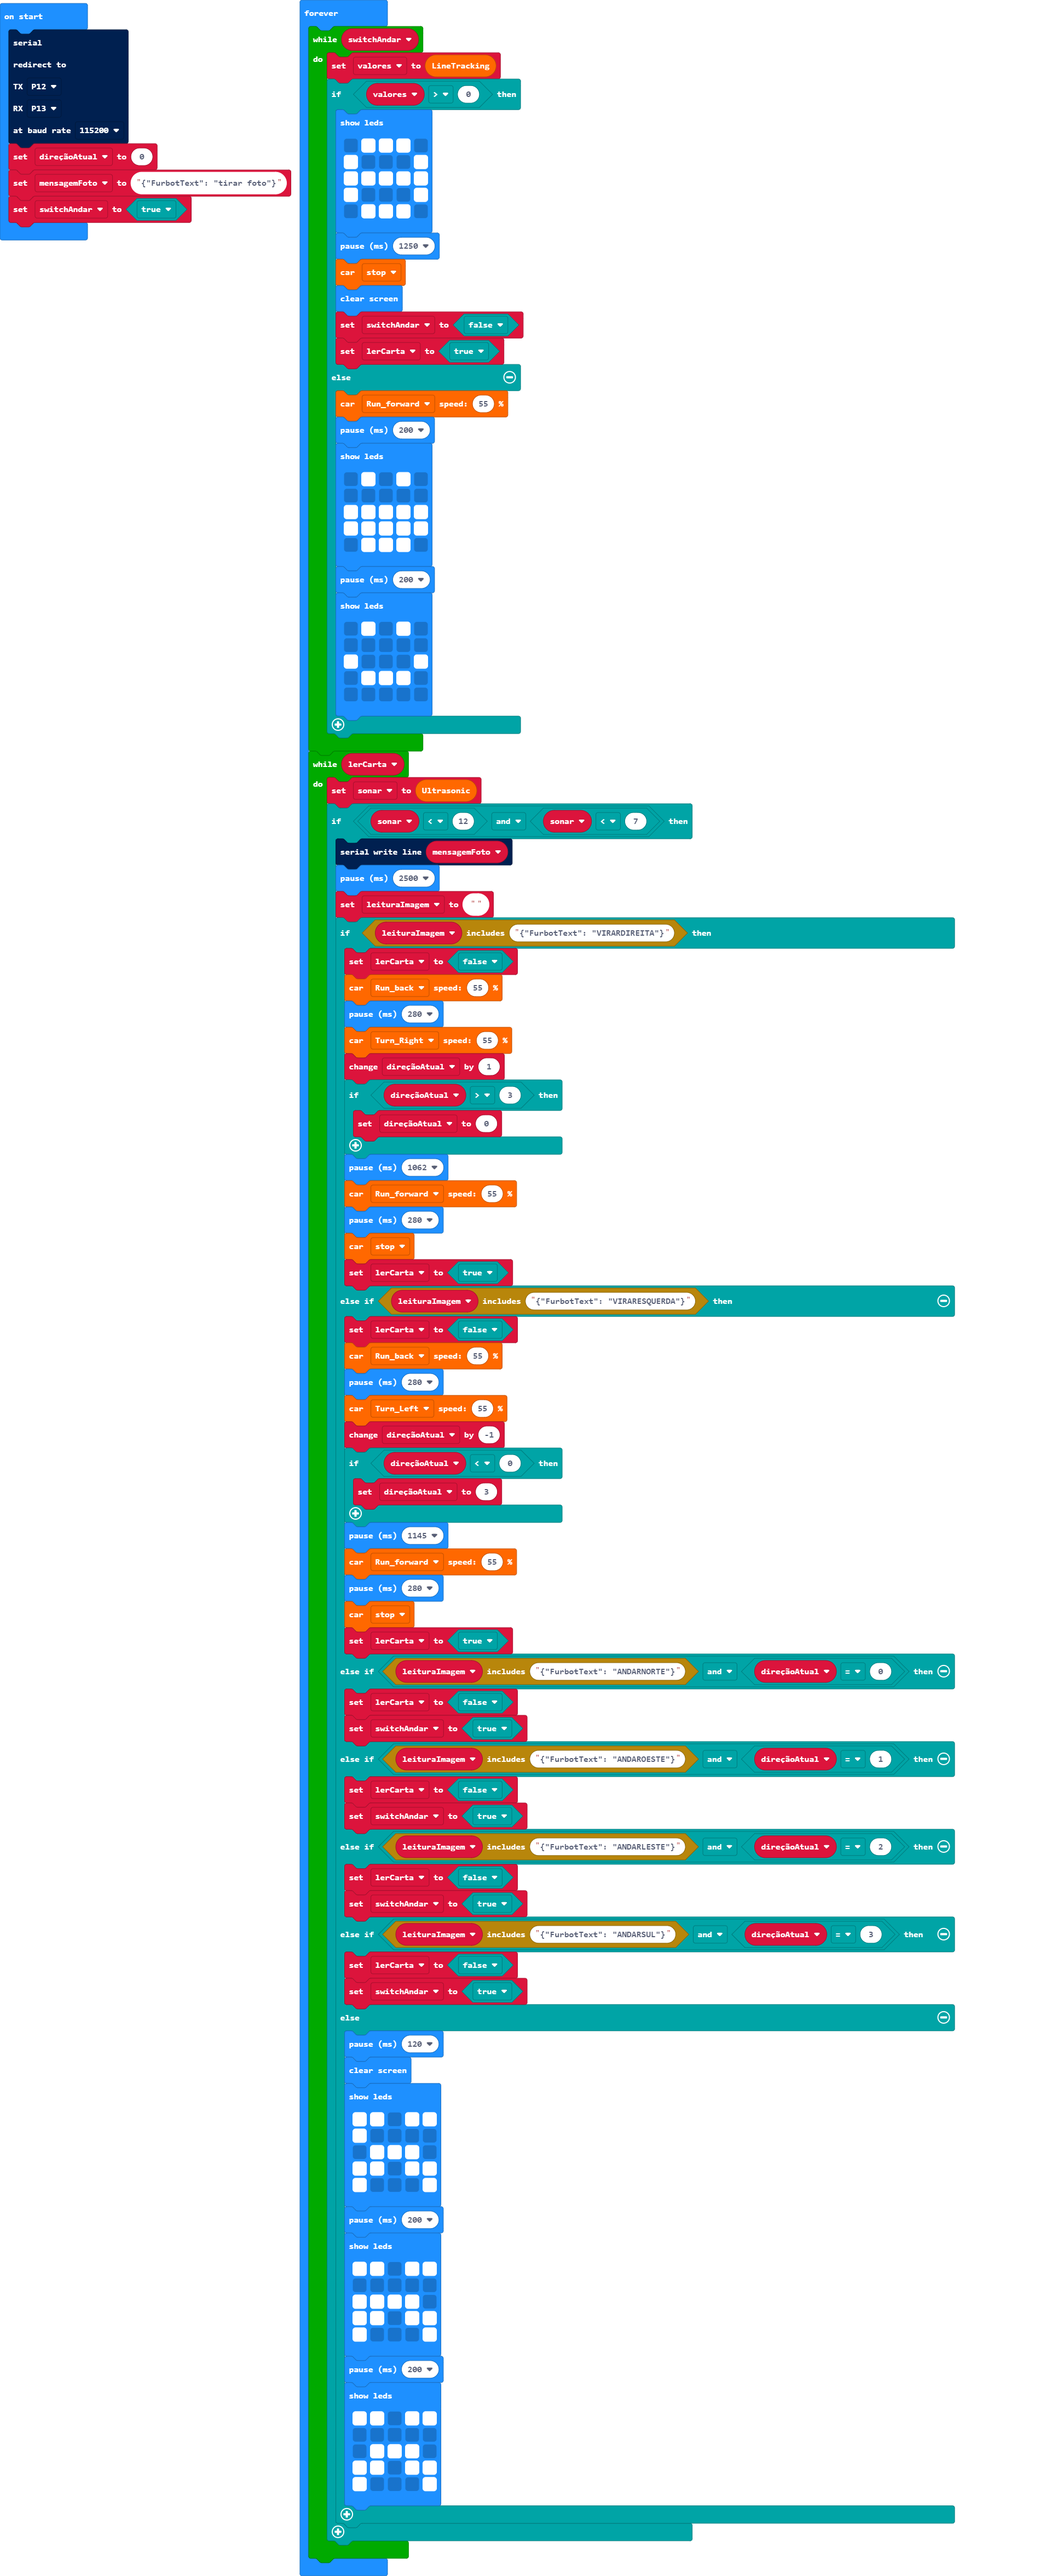
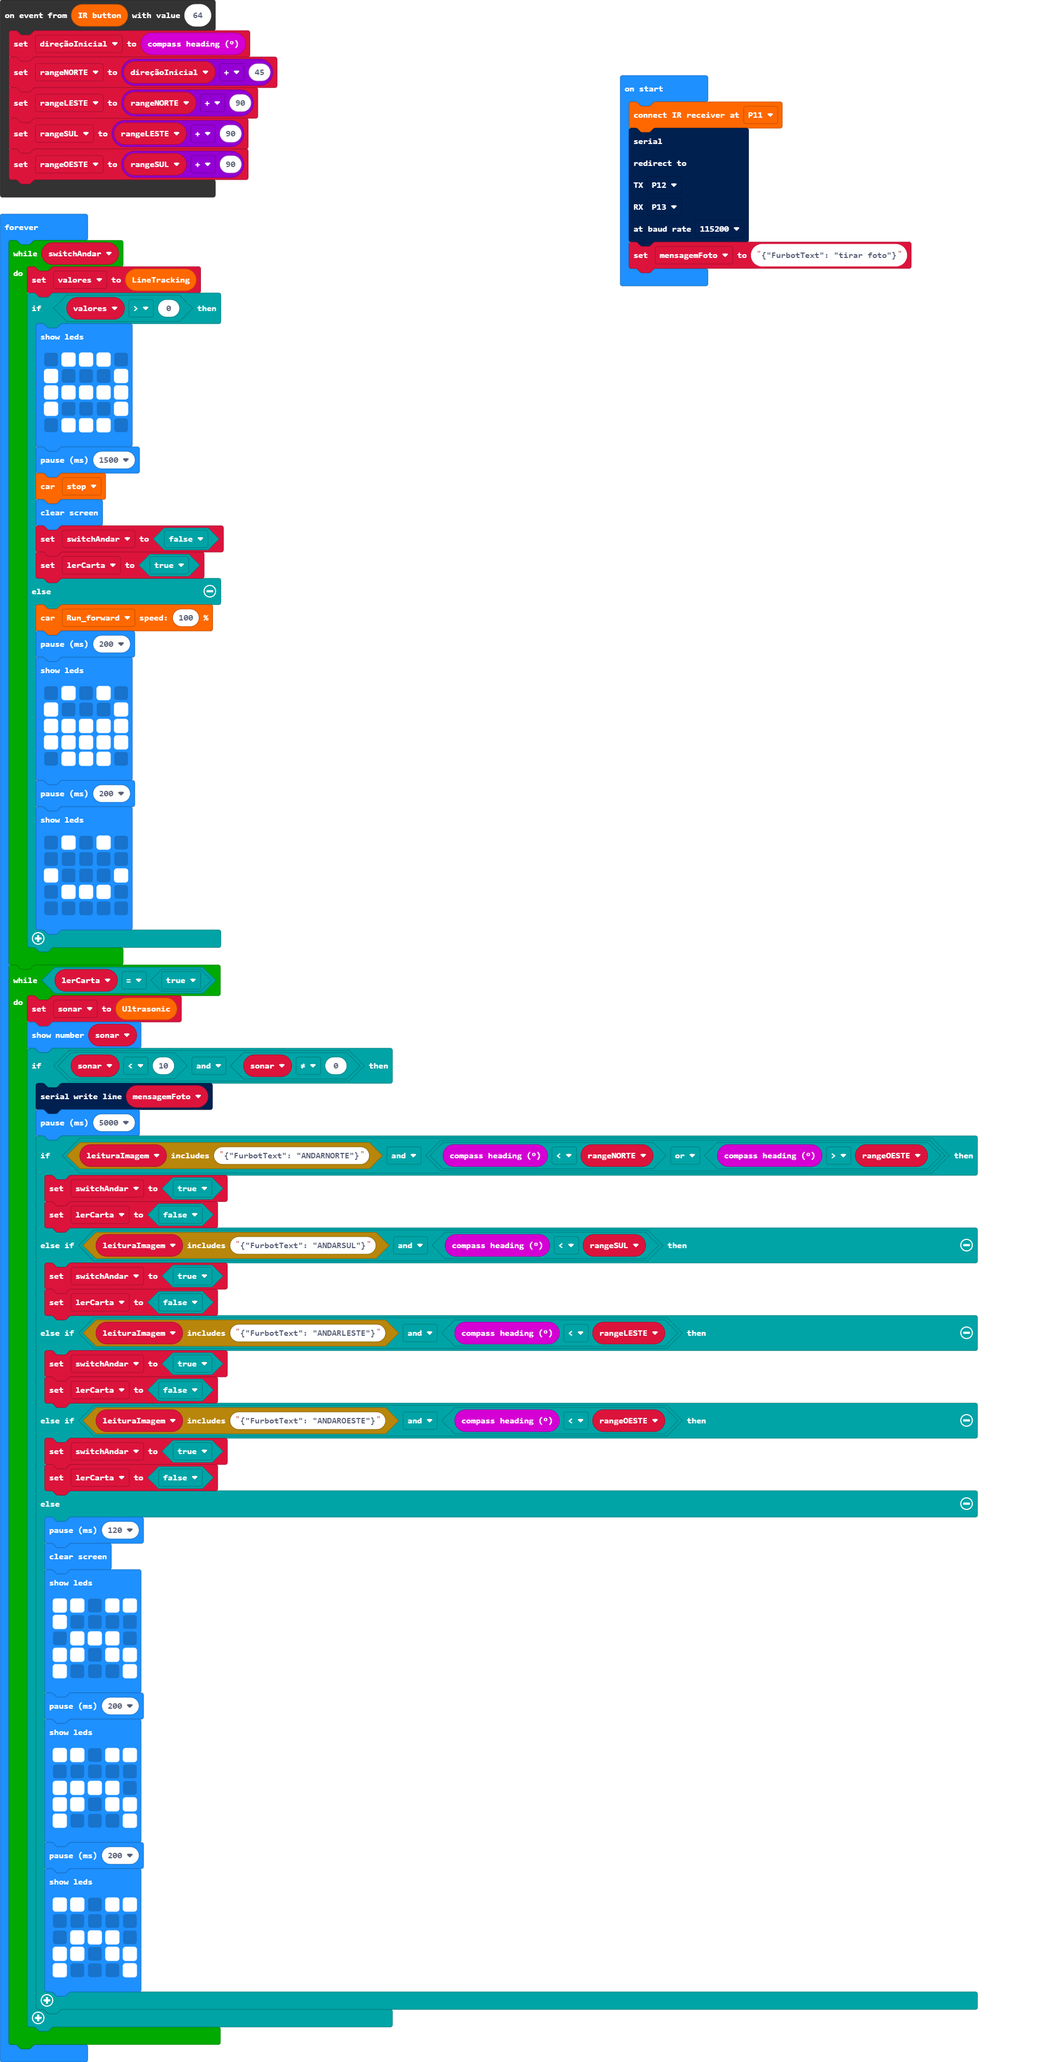
Restore '24/05/2022 17:10:45 Update main.blocks'

diff --git a/main.ts b/main.ts
@@ -1,15 +1,26 @@
-let leituraImagem = ""
+control.onEvent(irRemote.returnIrButton(), 64, function () {
+    direçãoInicial = input.compassHeading()
+    rangeNORTE = direçãoInicial + 45
+    rangeLESTE = rangeNORTE + 90
+    rangeSUL = rangeLESTE + 90
+    rangeOESTE = rangeSUL + 90
+})
 let sonar = 0
 let lerCarta = false
 let valores = 0
+let switchAndar = false
+let rangeOESTE = 0
+let rangeSUL = 0
+let rangeLESTE = 0
+let rangeNORTE = 0
+let direçãoInicial = 0
+irRemote.connectInfrared(DigitalPin.P11)
 serial.redirect(
 SerialPin.P12,
 SerialPin.P13,
 BaudRate.BaudRate115200
 )
-let direçãoAtual = 0
 let mensagemFoto = "{\"FurbotText\": \"tirar foto\"}"
-let switchAndar = true
 basic.forever(function () {
     while (switchAndar) {
         valores = turtleBit.LineTracking()
@@ -21,17 +32,17 @@ basic.forever(function () {
                 # . . . #
                 . # # # .
                 `)
-            basic.pause(1250)
+            basic.pause(1500)
             turtleBit.state(MotorState.stop)
             basic.clearScreen()
             switchAndar = false
             lerCarta = true
         } else {
-            turtleBit.run(DIR.Run_forward, 55)
+            turtleBit.run(DIR.Run_forward, 100)
             basic.pause(200)
             basic.showLeds(`
                 . # . # .
-                . . . . .
+                # . . . #
                 # # # # #
                 # # # # #
                 . # # # .
@@ -46,52 +57,25 @@ basic.forever(function () {
                 `)
         }
     }
-    while (lerCarta) {
+    while (lerCarta == true) {
         sonar = turtleBit.ultra()
-        if (sonar < 12 && sonar < 7) {
+        basic.showNumber(sonar)
+        if (sonar < 10 && sonar != 0) {
+            let leituraImagem = ""
             serial.writeLine(mensagemFoto)
-            basic.pause(2500)
-            leituraImagem = ""
-            if (leituraImagem.includes("{\"FurbotText\": \"VIRARDIREITA\"}")) {
-                lerCarta = false
-                turtleBit.run(DIR.Run_back, 55)
-                basic.pause(280)
-                turtleBit.run(DIR.Turn_Right, 55)
-                direçãoAtual += 1
-                if (direçãoAtual > 3) {
-                    direçãoAtual = 0
-                }
-                basic.pause(1062)
-                turtleBit.run(DIR.Run_forward, 55)
-                basic.pause(280)
-                turtleBit.state(MotorState.stop)
-                lerCarta = true
-            } else if (leituraImagem.includes("{\"FurbotText\": \"VIRARESQUERDA\"}")) {
-                lerCarta = false
-                turtleBit.run(DIR.Run_back, 55)
-                basic.pause(280)
-                turtleBit.run(DIR.Turn_Left, 55)
-                direçãoAtual += -1
-                if (direçãoAtual < 0) {
-                    direçãoAtual = 3
-                }
-                basic.pause(1145)
-                turtleBit.run(DIR.Run_forward, 55)
-                basic.pause(280)
-                turtleBit.state(MotorState.stop)
-                lerCarta = true
-            } else if (leituraImagem.includes("{\"FurbotText\": \"ANDARNORTE\"}") && direçãoAtual == 0) {
-                lerCarta = false
+            basic.pause(5000)
+            if (leituraImagem.includes("{\"FurbotText\": \"ANDARNORTE\"}") && (input.compassHeading() < rangeNORTE || input.compassHeading() > rangeOESTE)) {
                 switchAndar = true
-            } else if (leituraImagem.includes("{\"FurbotText\": \"ANDAROESTE\"}") && direçãoAtual == 1) {
                 lerCarta = false
+            } else if (leituraImagem.includes("{\"FurbotText\": \"ANDARSUL\"}") && input.compassHeading() < rangeSUL) {
                 switchAndar = true
-            } else if (leituraImagem.includes("{\"FurbotText\": \"ANDARLESTE\"}") && direçãoAtual == 2) {
                 lerCarta = false
+            } else if (leituraImagem.includes("{\"FurbotText\": \"ANDARLESTE\"}") && input.compassHeading() < rangeLESTE) {
                 switchAndar = true
-            } else if (leituraImagem.includes("{\"FurbotText\": \"ANDARSUL\"}") && direçãoAtual == 3) {
                 lerCarta = false
+            } else if (leituraImagem.includes("{\"FurbotText\": \"ANDAROESTE\"}") && input.compassHeading() < rangeOESTE) {
                 switchAndar = true
+                lerCarta = false
             } else {
                 basic.pause(120)
                 basic.clearScreen()

diff --git a/main.py b/main.py
@@ -7,10 +7,10 @@ def on_on_event():
     rangeOESTE = rangeSUL + 90
 control.on_event(irRemote.return_ir_button(), 64, on_on_event)
 
+leituraImagem = ""
 sonar = 0
 lerCarta = False
 valores = 0
-switchAndar = False
 rangeOESTE = 0
 rangeSUL = 0
 rangeLESTE = 0
@@ -19,9 +19,10 @@ direçãoInicial = 0
 irRemote.connect_infrared(DigitalPin.P11)
 serial.redirect(SerialPin.P12, SerialPin.P13, BaudRate.BAUD_RATE115200)
 mensagemFoto = "{\"FurbotText\": \"tirar foto\"}"
+switchAndar = False
 
 def on_forever():
-    global valores, switchAndar, lerCarta, sonar
+    global valores, switchAndar, lerCarta, sonar, leituraImagem
     while switchAndar:
         valores = turtleBit.line_tracking()
         if valores > 0:
@@ -42,7 +43,7 @@ def on_forever():
             basic.pause(200)
             basic.show_leds("""
                 . # . # .
-                                . . . . .
+                                # . . . #
                                 # # # # #
                                 # # # # #
                                 . # # # .
@@ -59,10 +60,11 @@ def on_forever():
         sonar = turtleBit.ultra()
         basic.show_number(sonar)
         if sonar < 10 and sonar != 0:
-            leituraImagem = ""
             serial.write_line(mensagemFoto)
             basic.pause(5000)
-            if leituraImagem.includes("{\"FurbotText\": \"ANDARNORTE\"}") and (input.compass_heading() < rangeNORTE or input.compass_heading() > rangeOESTE):
+
+
+            if leituraImagem.includes("{\"FurbotText\": \"ANDARNORTE\"}") and input.compass_heading() < rangeNORTE:
                 switchAndar = True
                 lerCarta = False
             elif leituraImagem.includes("{\"FurbotText\": \"ANDARSUL\"}") and input.compass_heading() < rangeSUL:
